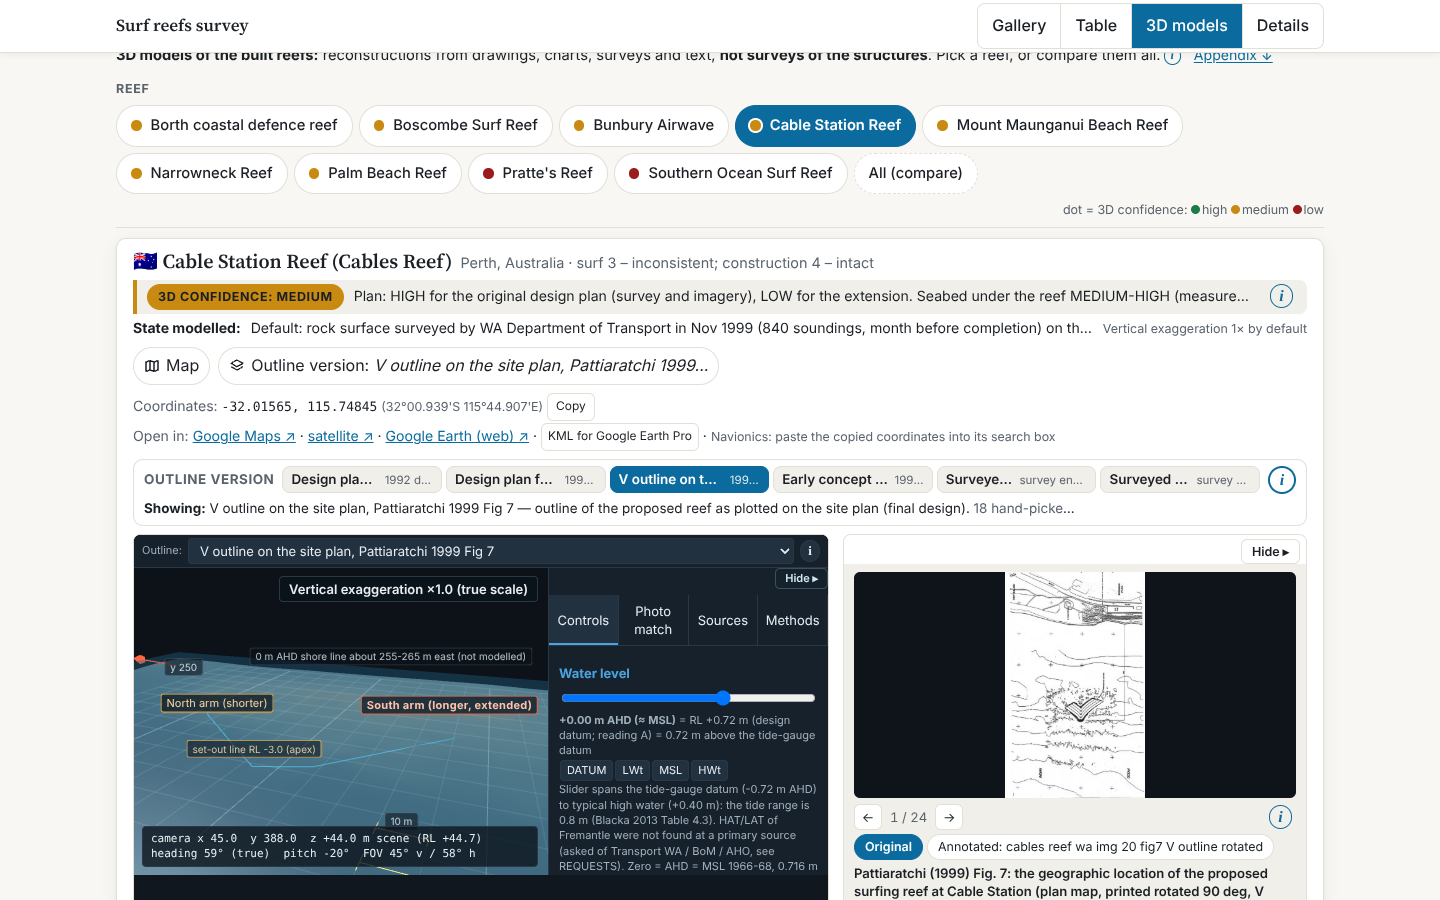
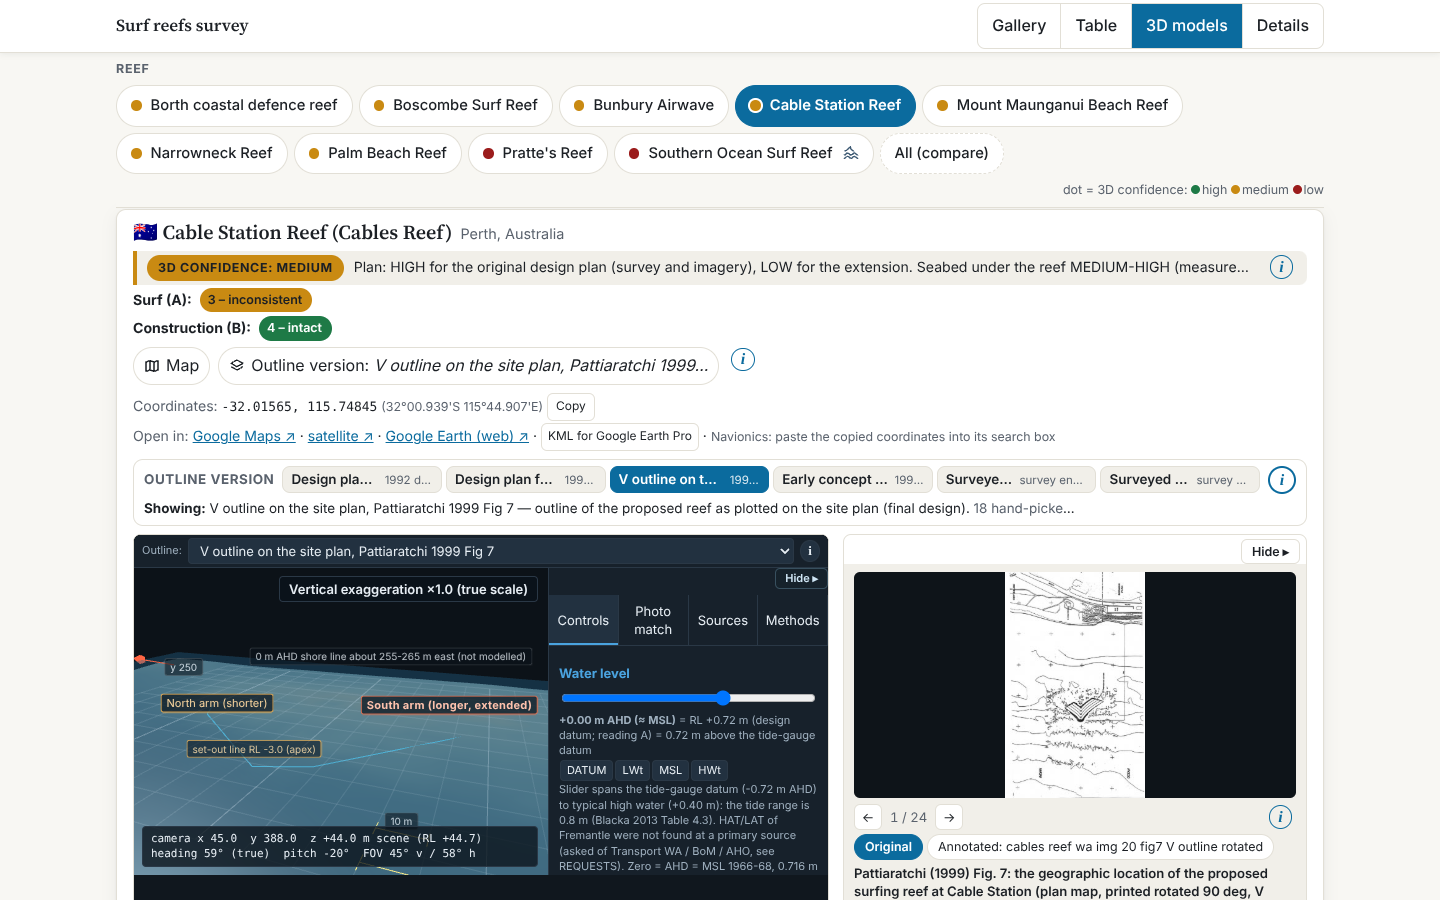
Checkpoint: page fixes in progress
Claude-Session: https://claude.ai/code/session_01QomPr3DTbVDqthgNQChCrv

diff --git a/04_build/HANDOFF.md b/04_build/HANDOFF.md
@@ -251,3 +251,10 @@ quality, and reef shape fidelity (surveyed vs idealised). The label of each reef
 - **Table (E)**: Size = volume (paper Table 1) in bold, card text below; scores A / B / C in three coloured columns under "Scores" (names from Table 1: "A, surf quality", "B, safety and longevity", "C, sediment and storm protection"; C words only for 1/3/5 as in the paper); order ... Cost, A, B, C, Financed by, Location (last).
 - **Checks adapted** (only where Lior removed something): qa_shots nav = Gallery/Table/3D models/Details; check.py gallery tiles and table Location rows exclude page_overrides reefs; hero-tier check skips Lior's chosen heroes. `ReefLoc.extras` uses all reefs (Borth 3D map block).
 - Open: Mount Maunganui crop registered but not shown (Lior asked for 3 panels); the 3D appendix is not moved to Details.
+
+## 0j. One-word ratings, filters, 3D header (2026-10-24, page agent) - NO geometry change
+- Words (`WORD_A/WORD_B/WORD_C` in `src/app.js`, mirrored in `src/models3d.js` and `compile_models3d.SCALE_*`): A 5 excellent, 4 good, 3 inconsistent, 2 rarely, 1 unsurfable, ? unknown (full Table 1 label in tooltips / (i)). B has four words: intact (4-5, green), renewed (3, blue), hazard (2, YELLOW), failure (1, red). C words only for 1/3/5: harm / mixed / good.
+- B per reef (rating_final.md): Albany hazard; Cables, Burkitts, Palm Beach, Borth intact; Narrowneck renewed; Boscombe, Kovalam, Mt Maunganui, Pratte's, Opunake, Bunbury failure. Xala unrated.
+- Gallery: chip groups "Surf (A)" and "Construction (B)" (options present only; state.verdict / state.bw), badges, Table score cells (score + word, coloured), dialog, legend and (i) use the words.
+- 3D tab: reef list buttons + header get a wave icon if A >= 4 (only Albany) and a beach-umbrella icon if C >= 4 (none of the reefs qualifies: max C is 3). Header "State modelled" line removed; replaced by two lines Surf (A) / Construction (B) (+ C only if >= 4 or 1, i.e. Mt Maunganui). (i) next to the Outline-version button explains the versions. qa_models3d.py header check adapted.
+- Run: dry, then `--full` check.py 0 failures.

diff --git a/05_qa/00_STATUS.md b/05_qa/00_STATUS.md
@@ -734,3 +734,6 @@ Mexico/Xala: nothing new that allows a trace. RWR post fetched (announcement onl
 
 ## 2026-10-24 (page agent) - Lior's page requests A-E (04_build/LIOR_PAGE_REQUESTS_2026-10-24.md)
 - Details tab; Section 2/3, footer, header title, verdict legend/chips and Table Verdict/# refs removed; newest first; Borth out of Gallery/Table; Xala only under "Announced, not yet documented"; new heroes (Cables, Pratte's, Burkitts, Opunake, Bunbury); RWR four-reef comparison saved at Lior's request + crops (registered in 4 registries); average cost of reefs that did not break (paper Table 1, US$5.2 M 2024 prices); Table scores A/B/C coloured, volume first, Location last; 3D: HUD hides with Labels off / hidden panels, project-picture picker for photo match, map + outline-version + key numbers collapsed. Details: `04_build/HANDOFF.md` 0i.
+
+## 2026-10-24 (page agent) - one-word ratings, Gallery filters, 3D header
+B words: intact / renewed / hazard (yellow) / failure; A one word per level. Gallery filters by A and B; Table score cells coloured with words; 3D list/header icons (wave: Albany only; sand icon: none, C max 3), header two lines, (i) on version selector. update_page --full: check.py 0 failures. Details: 04_build/HANDOFF.md 0j.
